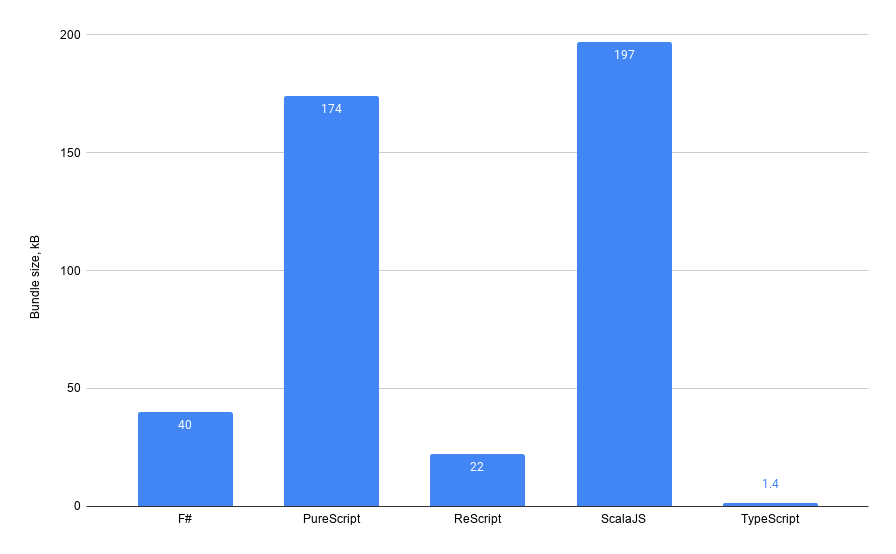
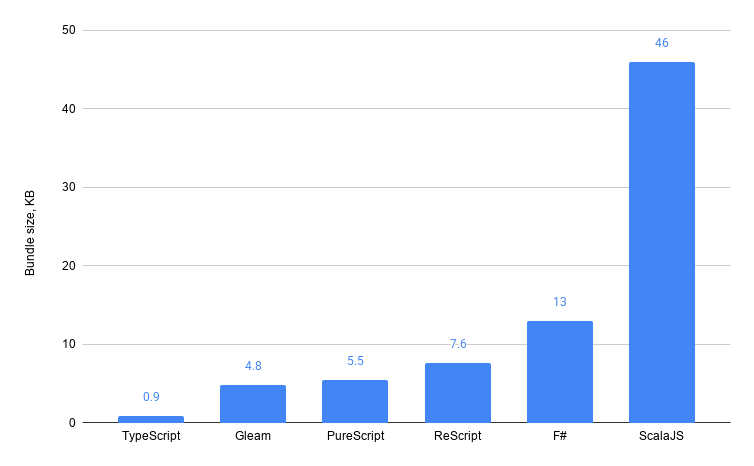
Update some tests in strongly-typed-front-end

diff --git a/_posts/2021-04-19-strongly-typed-front-end-experiment-1-experiment-1.md b/_posts/2021-04-19-strongly-typed-front-end-experiment-1-experiment-1.md
@@ -28,6 +28,7 @@ The implementations are made with:
 
 * Scala.js
 * ReasonML
+* ReScript
 * F#
 * PureScript
 * TypeScript
@@ -83,6 +84,31 @@ let hex2rgb = hex =>
       | Some([ Some(r), Some(g), Some(b) ]) => Some({ r: r, g: g, b: b })
       | _ => None
     })
+```
+
+### ReScript
+
+```reason
+type rgb = {
+  r: int,
+  g: int,
+  b: int,
+}
+
+let parse_hex = s => Int.fromString("0x" ++ s, ~radix=16)
+
+let hex2rgb = hex =>
+  RegExp.fromString("^#?([a-f0-9]{2})([a-f0-9]{2})([a-f0-9]{2})$")
+  ->RegExp.exec(hex)
+  ->Option.map(RegExp.Result.matches)
+  ->Option.map(a => Array.slice(a, ~start=0))
+  ->Option.map(a => Array.map(a, e => Option.flatMap(e, parse_hex)))
+  ->Option.map(parsed =>
+    switch parsed {
+    | [Some(r), Some(g), Some(b)] => Some({r, g, b})
+    | _ => None
+    }
+  )
 ```
 
 ### PureScript
@@ -582,7 +608,7 @@ Here is a comparison of the test results:
       <td>❌</td>
     </tr>
     <tr>
-      <td>ReScript</td>
+      <td>ReasonML</td>
       <td>✅</td>
     </tr>
     <tr>
@@ -631,24 +657,6 @@ Some implementations still throw error when the data type is not what the functi
 
     Error name:    "TypeError"
     Error message: "Cannot read property 'match' of undefined"
-```
-
-### ScalaJS
-
-```
- ● DarkenColor › in ScalaJS › hex2rgb › for object › undefined › does not fail
-
-    expect(received).not.toThrow()
-
-    Error name:    "org.scalajs.linker.runtime.UndefinedBehaviorError"
-    Error message: "java.lang.ClassCastException: undefined is not an instance of java.lang.String"
-
-  ● DarkenColor › in ScalaJS › hex2rgb › for number › positive › floating point › does not fail
-
-    expect(received).not.toThrow()
-
-    Error name:    "org.scalajs.linker.runtime.UndefinedBehaviorError"
-    Error message: "java.lang.ClassCastException: 3.14 is not an instance of java.lang.String"
 ```
 
 ### TypeScript
@@ -724,31 +732,35 @@ The pattern-matching-based implementation does not fail at all.
   <tbody>
     <tr>
       <td>F#</td>
-      <td>40K</td>
+      <td>13K</td>
     </tr>
     <tr>
       <td>PureScript</td>
-      <td>174K</td>
+      <td>5.5K</td>
     </tr>
     <tr>
-      <td>ReScript</td>
+      <td>ReasonML</td>
       <td>22K</td>
     </tr>
     <tr>
+      <td>ReScript</td>
+      <td>7.6K</td>
+    </tr>
+    <tr>
       <td>ScalaJS</td>
-      <td>197K</td>
+      <td>46K</td>
     </tr>
     <tr>
       <td>TypeScript</td>
-      <td>1.4K</td>
+      <td>0.9K</td>
+    </tr>
+    <tr>
+      <td>Gleam</td>
+      <td>4.8K</td>
     </tr>
     <tr>
       <td>Elm</td>
       <td>n/a</td>
-    </tr>
-    <tr>
-      <td>Gleam</td>
-      <td>10.8K</td>
     </tr>
   </tbody>
 </table>